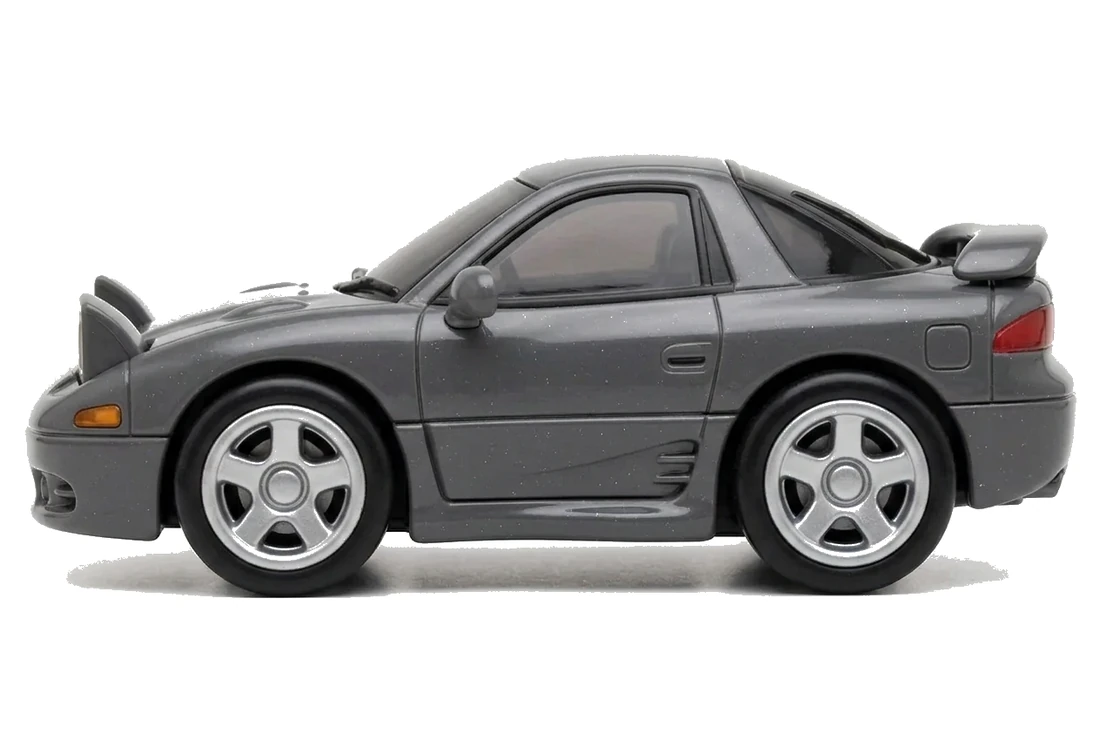
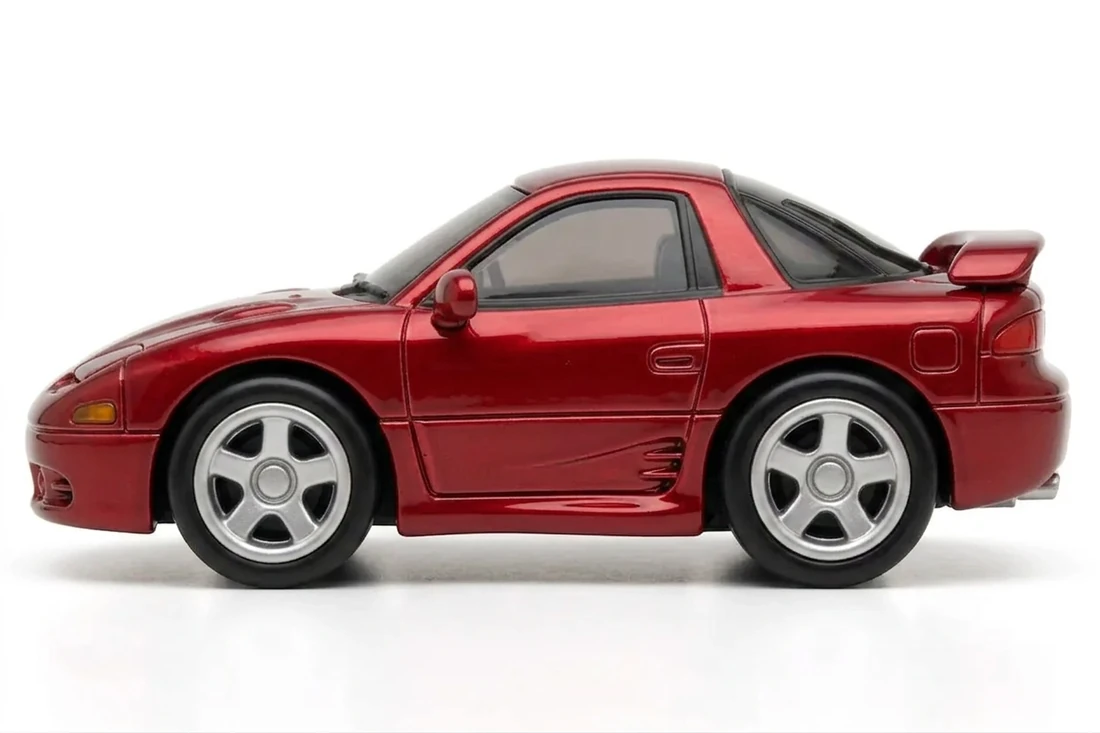
Referencias 3D actualizadas a los colores definitivos, guia EMPIEZA_AQUI y documento de copia de seguridad

diff --git a/produccion/EMPIEZA_AQUI.md b/produccion/EMPIEZA_AQUI.md
@@ -1,0 +1,131 @@
+# EMPIEZA AQUÍ — tu primer modelo 3D en 25 minutos, gratis
+
+Todo el material ya está preparado. Esto es solo seguir pasos.
+
+---
+
+## PASO 1 · Abrir el generador correcto (2 min)
+
+Entra en **huggingface.co** y busca en el buscador de arriba:
+
+```
+Hunyuan3D-2mv
+```
+
+Filtra por **Spaces** (no por Models). Entra en el de `tencent`.
+
+> **Aquí es donde falla todo el mundo:** el Space se abre por defecto en la pestaña **"Image Prompt"**, que solo admite una foto. Tienes que pinchar arriba en la pestaña **"MultiView Prompt"**. Solo entonces aparecen las cuatro casillas.
+
+Si el Space oficial está caído o con cola larga (pasa a menudo), busca `Hunyuan3D-2mv` y verás copias del mismo hechas por otros usuarios. Funcionan igual.
+
+---
+
+## PASO 2 · Subir las tres fotos (1 min)
+
+Abre en tu ordenador la carpeta `produccion/referencias/r34/` y arrastra:
+
+| Casilla del Space | Fichero |
+|---|---|
+| **Front** | `r34-tresc-frontal.webp` |
+| **Back** | `r34-tresc-trasera.webp` |
+| **Left** | `r34-lateral.webp` |
+| Right | *(déjala vacía)* |
+
+Ajustes recomendados si los ves:
+- `octree_resolution` → **380** (más detalle)
+- `remove background` → **activado**
+
+Pulsa **Gen Shape**. Tarda de 1 a 3 minutos.
+
+Descarga el **GLB**.
+
+---
+
+## PASO 3 · Blender: dejarlo imprimible (10 min)
+
+Instala Blender (gratis) y activa el add-on: *Edit → Preferences → Add-ons → buscar "3D Print" → marcar **3D-Print Toolbox***.
+
+```
+1. File → Import → glTF 2.0 (.glb)          importar el modelo
+2. Tecla N → pestaña Item → Dimensiones      poner el eje del LARGO en 0.07 m  (70 mm)
+3. Barra lateral 3D-Print → Check All        detecta errores
+4. Si hay errores → Make Manifold            los repara
+5. Modificador Solidify                      grosor -2 mm, marcar Even Thickness   (vaciado)
+6. Añadir cilindro Ø4 mm en los bajos
+   → Modificador Boolean → Difference        agujero de drenaje
+7. File → Export → 3MF                       ¡NO STL, no guarda color!
+```
+
+Guárdalo como `r34.3mf`.
+
+---
+
+## PASO 4 · Verificar antes de gastar un euro (2 min)
+
+Abre `r34.3mf` en **PrusaSlicer** (gratis):
+
+- ¿Avisa de que no es estanco? → vuelve al paso 4 de Blender
+- Mira el **volumen en cm³** y apúntalo → ese número es tu coste real de material
+
+---
+
+## PASO 5 · Pedir presupuesto (10 min)
+
+Con ese único fichero, abre `EMAIL_RFQ.md` y manda los tres correos, adjuntando:
+- El `r34.3mf`
+- Las fotos de `produccion/referencias/r34/`
+- El `FICHA_TECNICA_PROVEEDOR.md`
+
+**Pide una muestra física de una unidad.** No encargues producción hasta tenerla en la mano.
+
+---
+
+## 🛑 Para aquí
+
+No hagas los otros 14 todavía. Con el R34 vas a descubrir si la calidad de malla te vale, si Blender se te da bien y qué te cobra un proveedor de verdad. Esa información cambia todas las decisiones siguientes.
+
+Cuando tengas la muestra y te guste, repites el proceso 14 veces. Son unas dos tardes.
+
+---
+
+## Los otros 14 (para cuando llegue el momento)
+
+Mismo proceso. Nombres exactos de salida:
+
+```
+r34.3mf    r32.3mf     350z.3mf    supra.3mf   ae86.3mf
+mr2.3mf    rx7.3mf     nsx.3mf     civic.3mf   s2000.3mf
+evo.3mf    eclipse.3mf 3000gt.3mf  wrc.3mf     lfa.3mf
+```
+
+Las doradas **no requieren trabajo extra**: misma geometría, solo cambia el color que le indicas al proveedor.
+
+Luego, en Vercel:
+```
+STL_BASE_URL = https://tu-carpeta-publica-de-drive
+MODEL_EXT    = 3mf
+```
+
+Y a partir de ahí cada pedido pagado manda solo el fichero correcto a fabricar.
+
+---
+
+## Si Blender se te atraganta
+
+Es normal, no es un programa amable. Dos salidas:
+
+- **Microsoft 3D Builder** (Windows, gratis): hace *Simplify*, *Hollow* y agujeros en tres clics. Menos control, pero suficiente.
+- **Freelance en Fiverr**: 20-60 € por figura. Tienes el anuncio ya redactado en `EMAIL_RFQ.md`, apartado C.
+
+---
+
+## ⚠ Licencias: míralo antes de vender
+
+| Herramienta | ¿Puedes vender lo que salga? |
+|---|---|
+| **TRELLIS.2** | ✅ MIT, sin restricciones |
+| **Hunyuan3D** | ⚠ Licencia Tencent Community — **léela** |
+| **Meshy** gratis | ⚠ CC BY 4.0, obliga a atribuir |
+| **Tripo** gratis | ❌ Prohíbe uso comercial |
+
+Si la licencia de Hunyuan te genera dudas, usa **TRELLIS.2** con la vista ¾ frontal: acepta una sola foto pero es MIT y no tiene letra pequeña.

diff --git a/BACKUP.md b/BACKUP.md
@@ -1,0 +1,62 @@
+# COPIA DE SEGURIDAD — versión estable v1.0
+
+Punto de retorno creado el **20/08/2026**. Web completa, colores definitivos, backend funcionando.
+
+## Tienes tres formas de volver atrás
+
+### 1. La más rápida (30 segundos, sin tocar código)
+La versión estable vive para siempre en esta URL, que **nunca cambia**:
+
+```
+https://sscarsgarage-4m0zjkcg3-0nekassperr-archs-projects.vercel.app
+```
+
+En Vercel → proyecto **sscarsgarage** → pestaña **Deployments** → busca ese despliegue → botón **⋯** → **Promote to Production**.
+Listo: el dominio principal vuelve a servir esta versión.
+
+### 2. Desde GitHub (recupera también el código)
+
+```bash
+git checkout v1.0-estable          # ver la versión estable
+git checkout -b arreglo v1.0-estable   # trabajar a partir de ella
+```
+
+O para tirar por tierra todo lo posterior y volver del todo:
+
+```bash
+git reset --hard v1.0-estable
+git push --force origin main
+```
+
+También existe la rama `estable-v1.0`, que apunta al mismo sitio por si borras la etiqueta.
+
+### 3. Copia local completa
+
+```
+/home/user/backups/v1.0-estable/     (3,9 MB)
+```
+
+Proyecto entero: web, imágenes, backend, referencias 3D y documentación.
+
+---
+
+## Qué contiene exactamente esta versión
+
+| Bloque | Estado |
+|---|---|
+| Web | 15 productos, hero con collage, packs, FAQ, legales |
+| Colores | R34 azul + llantas doradas · R32 morado · 3000GT rojo · LFA llantas negras · Gold = R34 |
+| Hero | Miniaturas: R34 grande + 350Z + LFA |
+| Backend | checkout, webhook con idempotencia, panel admin |
+| Sorteo | Fisher-Yates, sin repetidos, Gold 1/500 (20.000 simulaciones) |
+| Referencias 3D | 15 carpetas, 47 imágenes, colores definitivos |
+| Móvil | Sin desbordamiento en 320/360/390/430/768 px |
+
+## Antes de cada cambio grande
+
+```bash
+git tag -a v1.1-antes-de-X -m "punto de retorno"
+git push origin v1.1-antes-de-X
+```
+
+Cuesta cinco segundos y te ahorra un disgusto.
